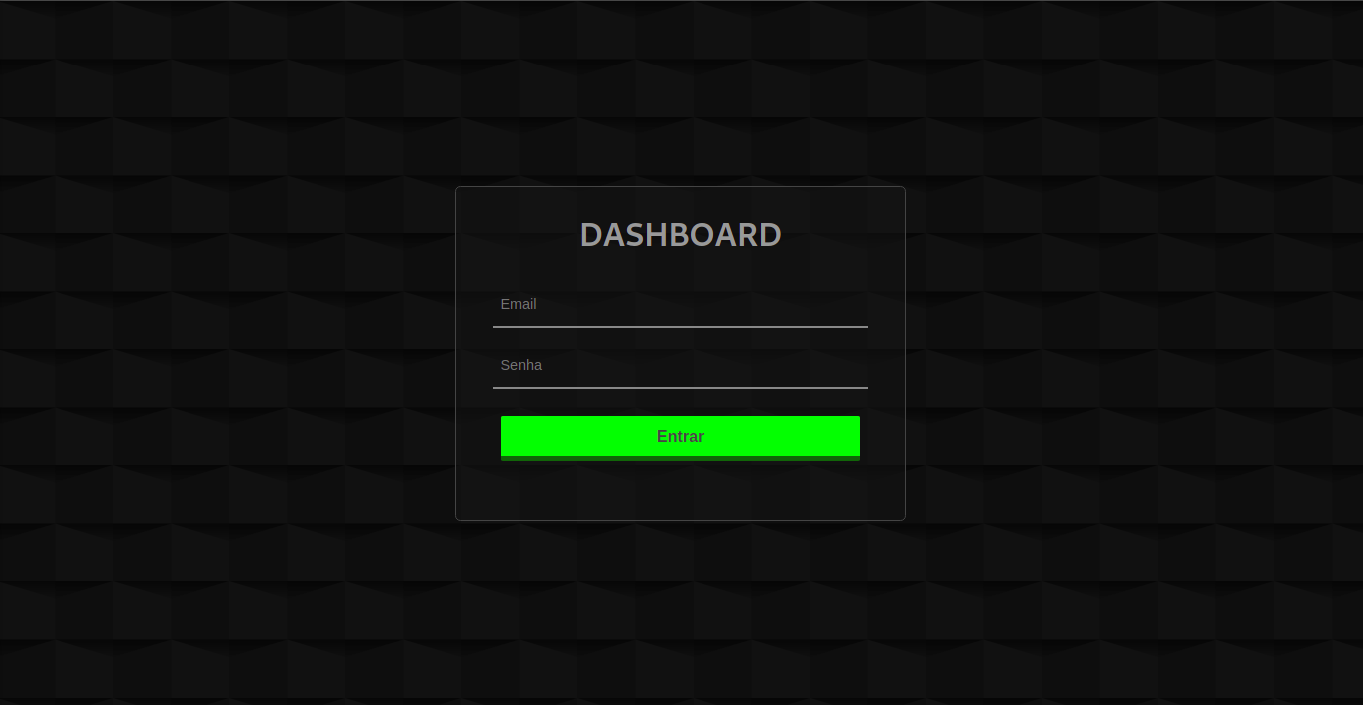
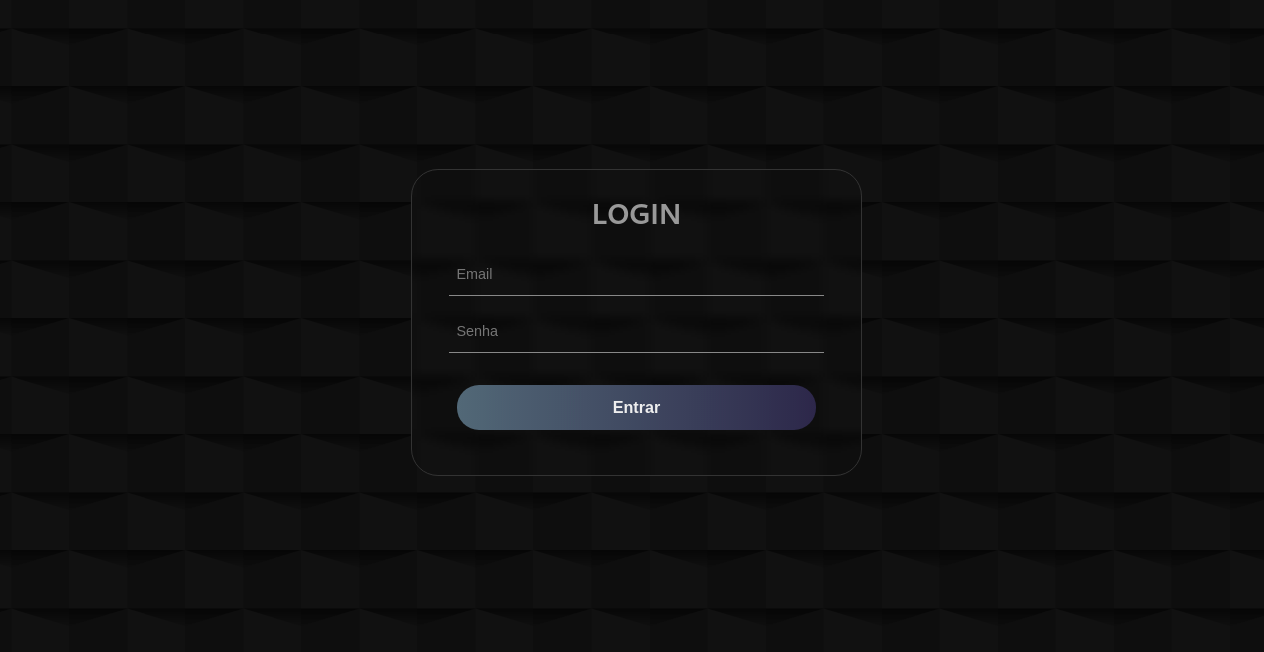
atualizaçao no estilo e descriçao

Changed region(s): [[0.3394, 0.5828, 0.6479, 0.6748], [0.3703, 0.3988, 0.6479, 0.5521], [0.432, 0.3067, 0.5862, 0.3681]]

diff --git a/src/containers/Login/styles.css b/src/containers/Login/styles.css
@@ -18,29 +18,24 @@
 }
 
 .login__form {
-  background-color: #17171777;
+  backdrop-filter: saturate(180%) blur(5px);
   display: flex;
   flex-direction: column;
   width: 500px;
-  height: 370px;
-  border-radius: 6px;
+  height: 340px;
+  border-radius: 30px;
   overflow: hidden;
   align-items: center;
   transition: .2s;
-  border: 1px solid #444;
-}
-
-.login__form:hover {
-  background-color: #171717aa;
-  transition: .4s;
+  border: 1px solid #333;
 }
 
 .login__form h1 {
   color: #999;
   margin: 0;
   margin-top: 30px;
-  margin-bottom: 16px;
-  font-size: 36px;
+  margin-bottom: 10px;
+  font-size: 32px;
   text-transform: uppercase;
 }
 
@@ -50,9 +45,9 @@
   border: none;
   outline: none;
   background: none;
-  border-bottom: 2px solid #888;
+  border-bottom: 1px solid #888;
   font-size: 16px;
-  padding: 16px 8px;
+  padding: 14px 8px;
   color: #eee;
 }
 
@@ -60,18 +55,22 @@
   border: none;
   outline: none;
   background: none;
-  margin-top: 30px;
+  margin-top: 36px;
   width: 400px;
   height: 50px;
-  background-color: #73e831;
-  color: #444;
+  background:linear-gradient(90deg, #536976 0%,#292e49 100% );
+  color: #eee;
   font-weight: bold;
   font-size: 18px;
   padding: 10px;
-  border-radius: 2px;
-  border-bottom: 6px solid #2e5c13;
+  border-radius: 30px;
+  transition: .4s;
 }
 
-.login__form button:active {
-  border-bottom: 3px solid #2e5c13;
+.login__form button:hover {
+  box-shadow: 
+    -2px -2px 20px 0 #333,
+    10px 10px 20px 0 #000
+  ;
+  transition: .6s;
 }

diff --git a/src/containers/Dashboard/styles.css b/src/containers/Dashboard/styles.css
@@ -1,4 +1,6 @@
 .dashboard {
+  box-sizing: border-box;
+  overflow: hidden;
   width: 100%;
   height: 100vh;
   background-color: #000000;
@@ -11,19 +13,36 @@
 .dashboard__sideBar {
   width: 350px;
   height: 100vh;
+  box-sizing: border-box;
+  overflow: hidden;
+  display: flex;
+  justify-content: center;
+  align-items: center;
 }
 
 .dashboard__content {
   width: calc(100% - 350px);
   height: 100vh;
+  box-sizing: border-box;
+  overflow: hidden;
 }
 
 .dashboard__content-nav {
   width: 100%;
   height: 80px;
+  box-sizing: border-box;
+  overflow: hidden;
+  display: flex;
+  justify-content: center;
+  align-items: center;
 }
 
 .dashboard__content-main {
   width: 100%;
   height: calc(100vh - 80px);
+  box-sizing: border-box;
+  overflow: hidden;
+  display: flex;
+  justify-content: center;
+  align-items: center;
 }

diff --git a/src/Routes/index.jsx b/src/Routes/index.jsx
@@ -2,14 +2,14 @@ import React from 'react';
 import { BrowserRouter, Switch, Route } from 'react-router-dom';
 
 import Login from '../containers/Login';
-import DashboardRoute from './DashboardRoute';
+import Dashboard from '../containers/Dashboard';
 
 const Routes = () => {
   return(
     <BrowserRouter>
       <Switch>
         <Route exact path="/" component={Login}/>
-        <Route path="/dashboard" component={DashboardRoute} />
+        <Route path="/dashboard" component={Dashboard} />
       </Switch>
     </BrowserRouter>
   );

diff --git a/src/components/CadUser/index.jsx b/src/components/CadUser/index.jsx
@@ -1,12 +1,12 @@
 import React from 'react';
 import './styles.css';
 
-const NavBar = () => {
+const CadUser = () => {
   return(
-    <div className="navBar">
+    <div className="cadUser">
       
     </div>
   );
 }
 
-export default NavBar;
+export default CadUser;

diff --git a/src/containers/Login/index.jsx b/src/containers/Login/index.jsx
@@ -35,7 +35,7 @@ const Login = () => {
       <div className="login__content">
         <div className="login__form">
 
-          <h1>Dashboard</h1>
+          <h1>Login</h1>
 
           <input 
             type="email" 

diff --git a/src/components/SideBar/styles.css b/src/components/SideBar/styles.css
@@ -1,0 +1,8 @@
+.sideBar {
+  width: 93%;
+  height: 97vh;
+  backdrop-filter: saturate(180%) blur(3px);
+  border: 1px solid #111;
+  border-radius: 6px;
+  overflow: auto;
+}

diff --git a/src/components/Main/styles.css b/src/components/Main/styles.css
@@ -1,0 +1,8 @@
+.main {
+  width: 99%;
+  height: calc(95vh - 66px);
+  overflow: auto;
+  display: flex;
+  justify-content: center;
+  align-items: center;
+}

diff --git a/src/components/SideBar/index.jsx b/src/components/SideBar/index.jsx
@@ -4,7 +4,7 @@ import './styles.css';
 const SideBar = () => {
   return(
     <div className="sideBar">
-      SideBar
+      
     </div>
   );
 }

diff --git a/src/components/Main/index.jsx b/src/components/Main/index.jsx
@@ -4,7 +4,6 @@ import './styles.css';
 const Main = () => {
   return(
     <div className="main">
-      Main
     </div>
   );
 }

diff --git a/src/components/CadUser/styles.css b/src/components/CadUser/styles.css
@@ -1,0 +1,7 @@
+.cadUser {
+  width: 94%;
+  height: 600px;
+  background-color: #fafafa;
+  border-radius: 10px;
+}
+

diff --git a/src/components/NavBar/styles.css b/src/components/NavBar/styles.css
@@ -1,0 +1,5 @@
+.navBar {
+  width: 99%;
+  height: 66px;
+  margin-top: 10px;
+}
